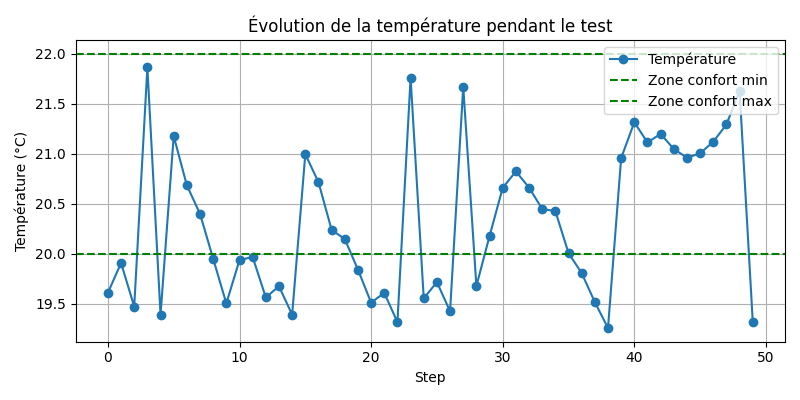
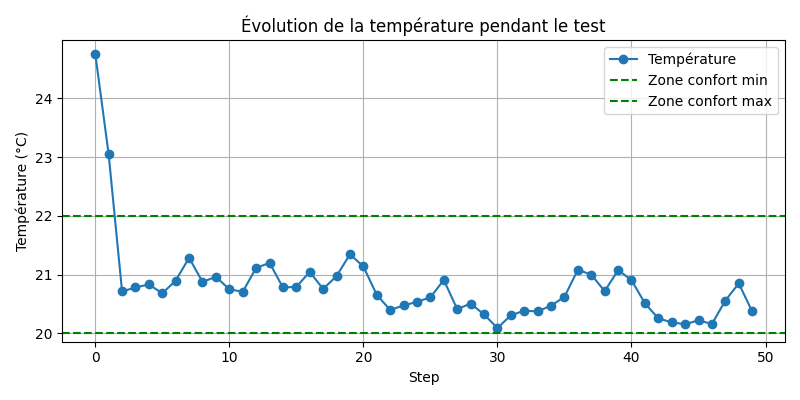
changer la valeurs de fréquence d'apprentissage alpha=0.01

diff --git a/main.py b/main.py
@@ -120,7 +120,7 @@ def apprendre(q_table, temp, action, reward, nouvelle_temp, alpha, gamma):
 
 def entrainer(episodes=200):
     q_table = {}
-    alpha = 0.1
+    alpha = 0.01
     gamma = 0.9
     epsilon = 1.0
     rewards_history = []  # <-- stocke la récompense totale de chaque épisode
@@ -155,10 +155,10 @@ def entrainer(episodes=200):
     plt.legend()
     plt.grid(True)
     plt.tight_layout()
-    plt.savefig("rewards_plot.png")  # <-- sauvegarde en PNG
+    plt.savefig("rewards_plot1.png")  # <-- sauvegarde en PNG
     plt.close()
-    
-    print("\n✅ Entraînement terminé ! Le plot a été enregistré sous 'rewards_plot.png'\n")
+
+    print("\n✅ Entraînement terminé ! Le plot a été enregistré sous 'rewards_plot1.png'\n")
     return q_table
 
 
@@ -193,10 +193,10 @@ def tester(q_table):
     plt.legend()
     plt.grid(True)
     plt.tight_layout()
-    plt.savefig("temperature_test.png")
+    plt.savefig("temperature_test1.png")
     plt.close()
-    
-    print("\n✅ Test terminé ! Le plot a été enregistré sous 'temperature_test.png'\n")
+
+    print("\n✅ Test terminé ! Le plot a été enregistré sous 'temperature_test1.png'\n")
 
 
 # ═══════════════════════════════════════════════════════════════
